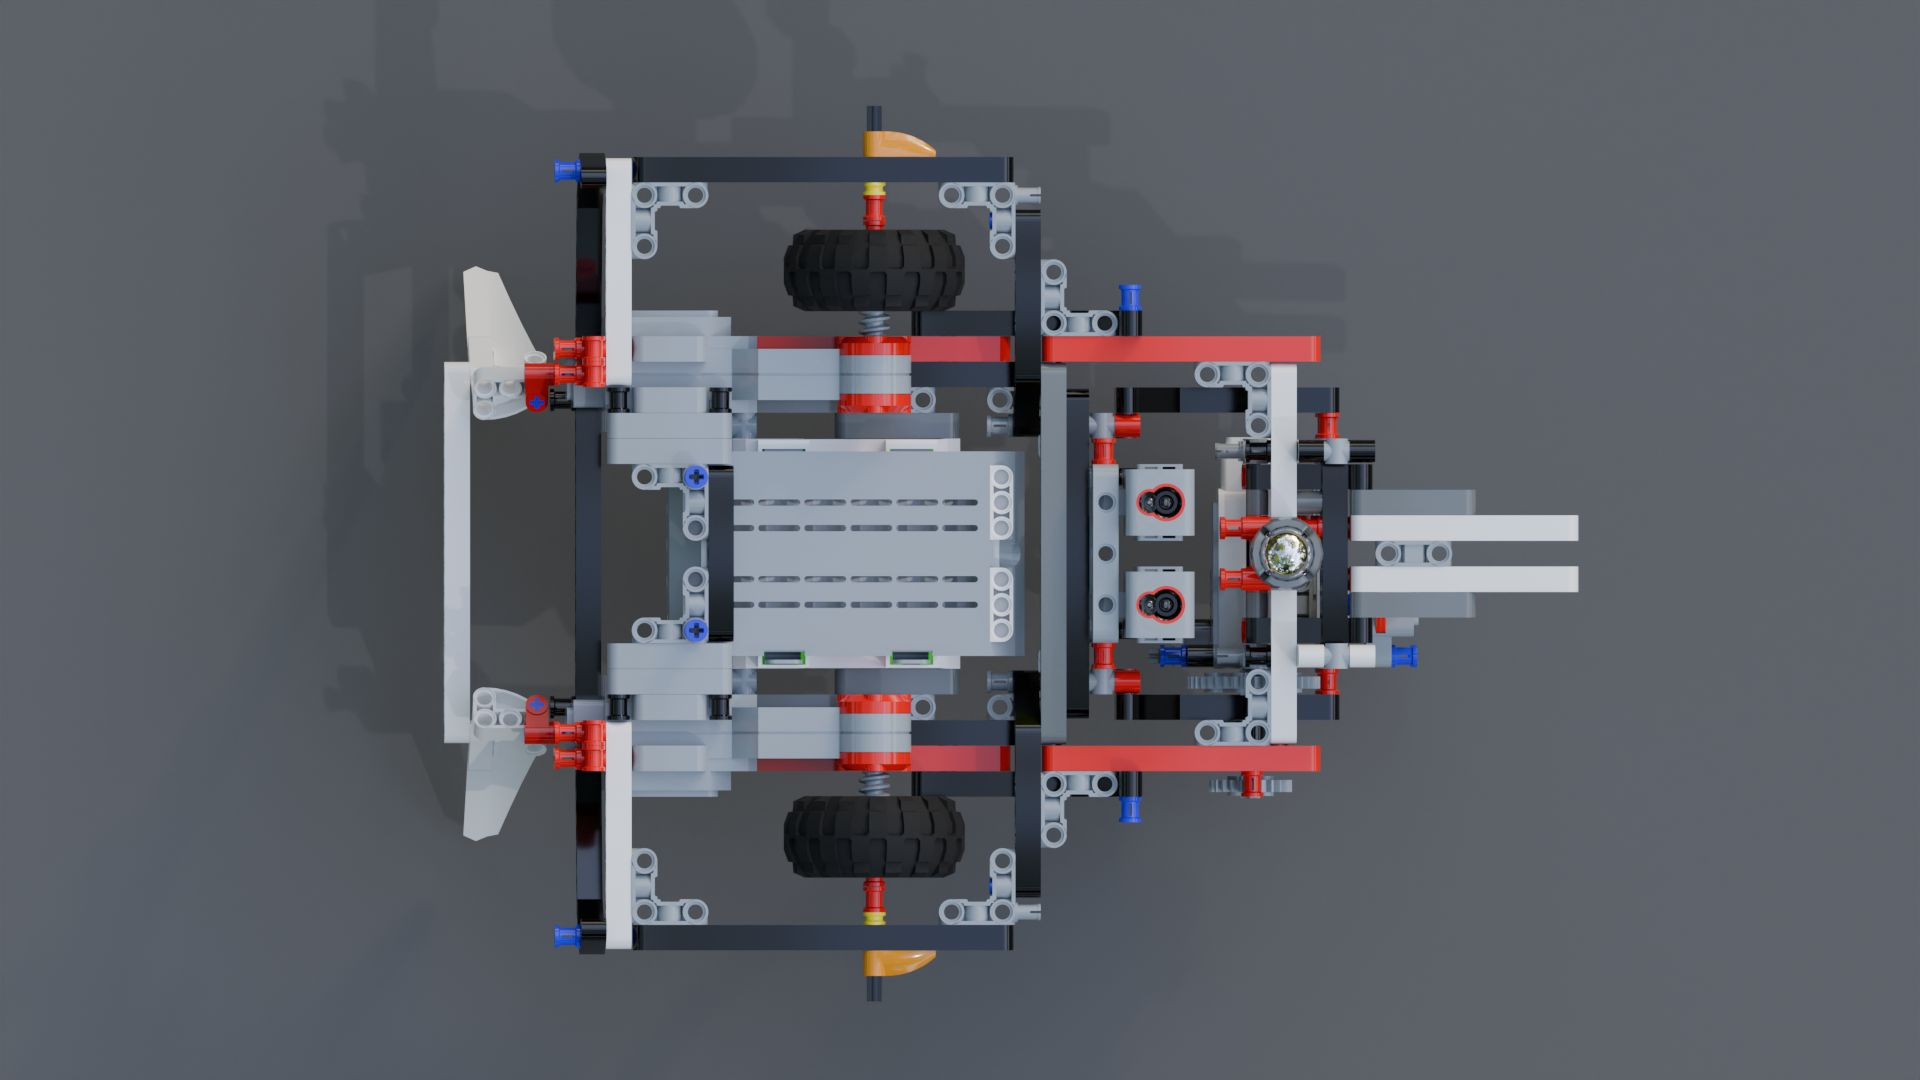
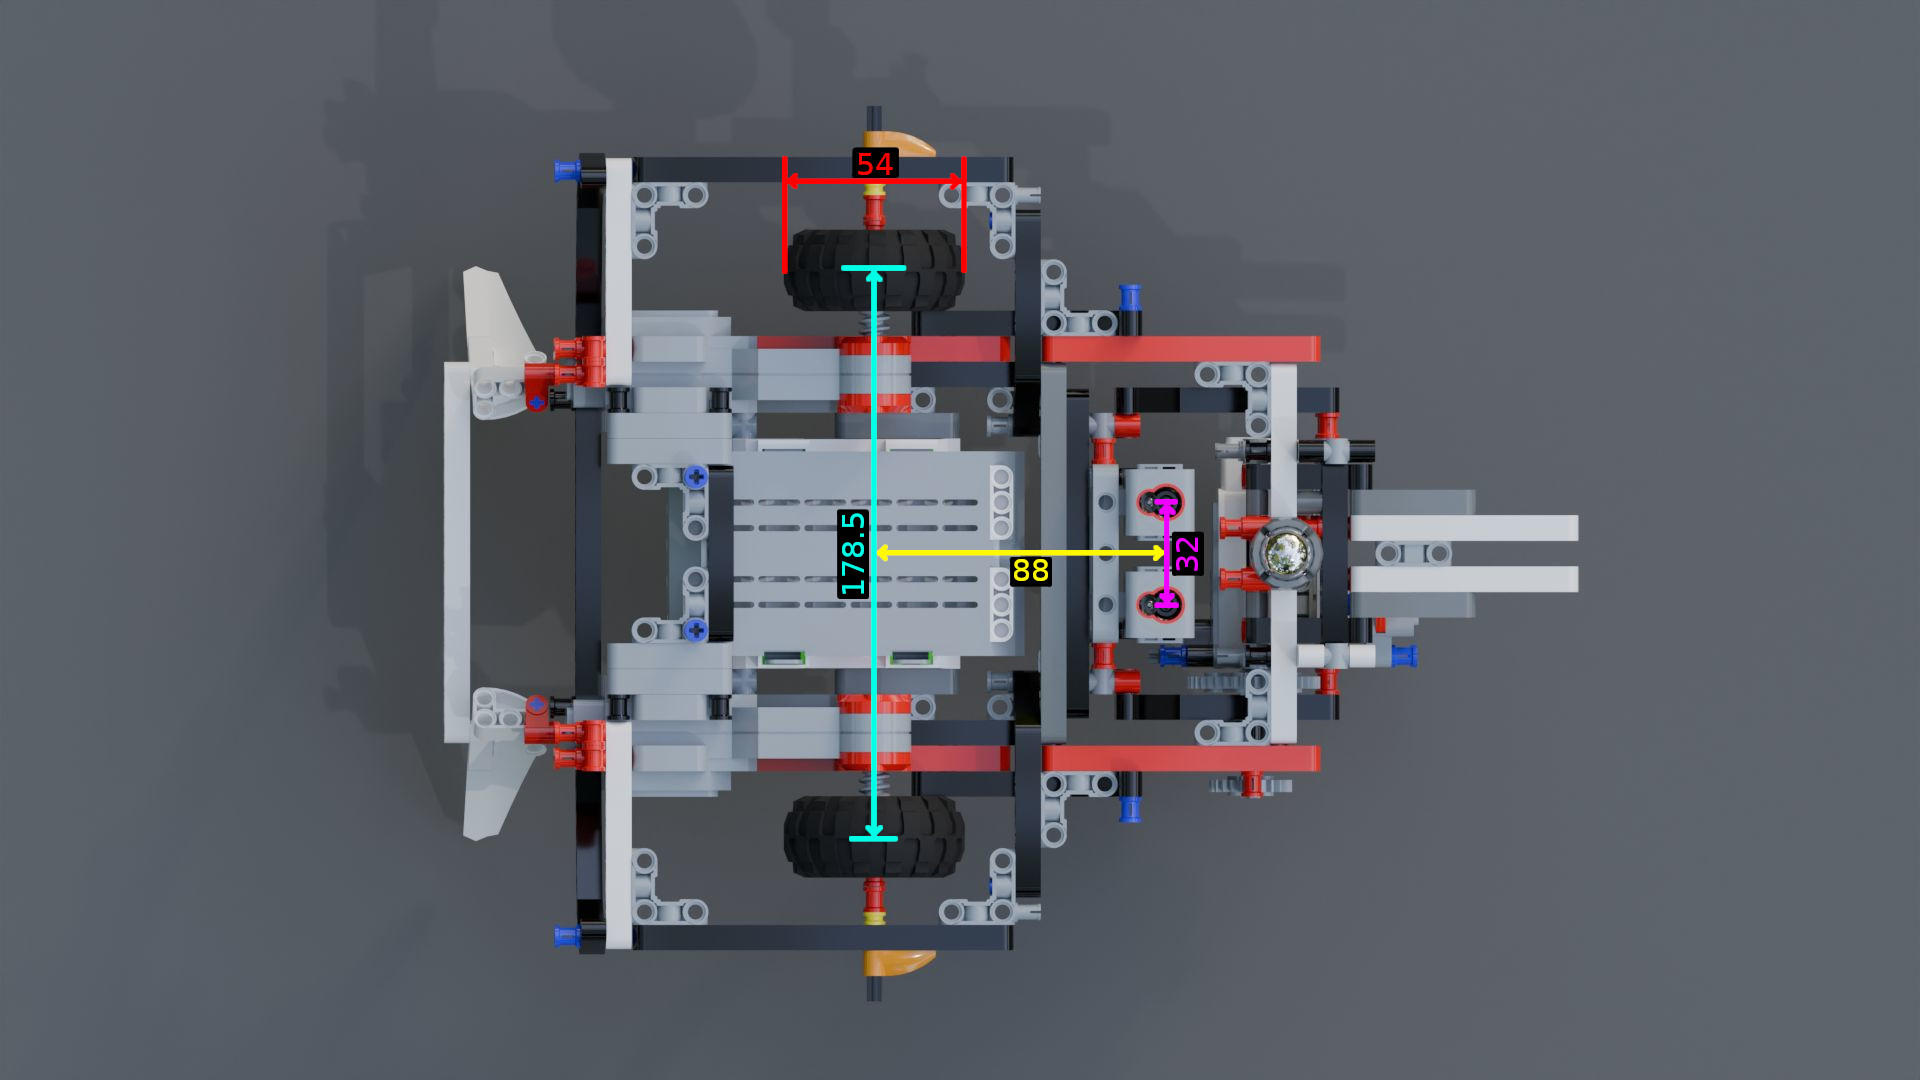
update docs

diff --git a/README.md b/README.md
@@ -1,3 +1,225 @@
-# wri
+# Wstęp do Robotyki dla Informatyków - Sirius Mini
 
-A repo for project for WRI.
+# Autorzy
+
+-   Adam Jeliński
+-   Miłosz Mizak
+
+# 1. Wstęp
+
+Poniższa dokumentacja opisuje działanie kodu sterującego naszym robotem - Siriusem Mini. Robot został złożony z części zestawu LEGO Mindstorms.
+
+Aby uruchomić robota, należy załadować do niego dwa pliki - `follower.py` oraz `transporter.py`. Po uruchomieniu dowolnego z nich należy poczekać na sygnał dźwiękowy, a następnie wpisać komendę `start`, aby robot rozpoczął działanie.
+
+# 2. Ogólny opis działania
+
+Robot miał za cel wykonać dwa zadania. Pierwszym było **Follow The Line**, które polegało na dokładnym śledzeniu czarnej linii, tworzącej trasę dla robota. Trasa zawiera w sobie pętle a także skrzyżowania, które należało przejeżdżać na wprost.
+
+Drugim zadaniem był **Transporter**. Robot po rozpoznaniu kolorowego skrzyżowania musiał wjechać w to skrzyżowanie, podnieść paczkę, wycofać się do skrzyżowania, dotrzeć do drugiego skrzyżowania i na drugim kolorowym polu zostawić tę paczkę.
+
+Aby mieć możliwość wykonania tych zadań, robot został wyposażony w dwa kluczowe elementy. Pierwszym były **czujniki kolorów**, które są mu potrzebne do decyzji o skręcaniu w odpowiednim momencie.
+
+Drugim był **podnośnik**, analogiczny do takiego w wózku widłowym. Widły wchodzą w dziurę w dolnej części przesyłki, a następnie podnoszą się. W górnej części wideł zamontowany jest **czujnik dotyku**. Gdy widły podniosą się wystarczająco wysoko, wciskają czujnik, co zatrzymuje ich dalsze wznoszenie.
+
+Oczywiście mechanizm podnoszenia i opuszczania wideł jest sterowany przez program.
+
+# 3. Opis fizycznej konstrukcji
+
+![sirius_mini](docs/sirius_mini.jpg)
+
+W celu lepszego zaplanowania robota, stworzyliśmy dokładną replikę naszego robota w programie Bricklink Studio 2.0. Dzięki temu mogliśmy myśleć nad rozwiązaniami poza zajęciami i mieliśmy możliwość stworzenia ładnych renderów do tej dokumentacji. Model znajduje się w pliku `sirius_mini.io`.
+
+## Baza jezdna
+
+![sirius_mini_top](docs/sirius_mini_top.jpg)
+![sirius_mini_bottom](docs/sirius_mini_bottom.jpg)
+
+Na samym początku budowania naszego robota postanowiliśmy, że najprościej będzie sterować robotem z napędem różnicowym i metalową kulą służącą jako podparcie. Dzięki temu mamy możliwość bardzo łatwego skręcania w miejscu i możemy skorzystać z gotowego kontrolera `MoveDifferential` z biblioteki `ev3dev2`.
+
+Staraliśmy się wybrać jak najmniejsze kółka oraz jak największy ich rozstaw, aby maksymalnie wykorzystać rozdzielczość enkoderów z kół. Dodatkowo każdy element konstrukcji jest bardzo sztywny, dzięki czemu minimalizowaliśmy niepewność związaną z wyginaniem się robota. Dlatego koła nie trzymają się jedynie na silnikach, ale mają dodatkowe podparcia od zewnątrz.
+
+Wymiary:
+
+- średnica kółek: 54mm
+- rozstaw kółek: 178.5mm
+- odległość pomiędzy czujnikami i osią: 88mm
+- rozstaw między czujnikami: 32mm
+
+## Czujniki
+![sirius_mini_side](docs/sirius_mini_side.jpg)
+
+Czujniki koloru umieściliśmy względnie blisko osi obrotu robota, dzięki czemu robot niezbyt często wchodził w oscylacje podczas szukania linii. Zamontowane są na tyle nisko, że linia może w całości zmieścić się między ich polami pomiarowymi.
+
+## Transporter
+
+![sirius_mini_fork](docs/sirius_mini_fork.jpg)
+
+Aby przenieść paczkę, postanowiliśmy że stworzymy mechanizm z widłami, które poruszają się w pionie. Rozwiązanie to jest znacznie bardziej skomplikowane niż typowy hak, który był wykorzystany przez konkurencję. My uznaliśmy, że będzie to ciekawe wyzwanie i stworzenie wózka widłowego będzie zabawne.
+
+W celu osiągnięcia pionowego ruchu wideł konieczna była zamiana ruchu obrotowego z silnika na ruch posuwisty. Musieliśmy bardzo kreatywnie podejść do problemu aby to osiągnąć z dostępnymi elementami. Ostatecznie stworzyliśmy mechanizm korbowy, z pionową prowadnicą, utrzymującą widły w poziomie.
+
+![sirius_mini_fork_cross_section](docs/sirius_mini_fork_cross_section.jpg)
+
+Aby nie musieć ręcznie kalibrować pozycji wideł przy każdym uruchomieniu, używamy czujnika dotyku jako endstop. Podczas startu programu robot podnosi widły aż o niego uderzy, dzięki czemu zawsze wie gdzie się znajdują.
+
+Dzięki lekkiemu skosowi robota, paczka jest oparta o tył wideł i nie zsuwa się podczas jazdy.
+
+## Ciekawostki
+
+Najważniejszym elementem konstrukcyjnym jest spoiler z tyłu robota, daje on nam maksymalną liczbę punktów za styl.
+
+Ze względu na duże zużycie najpopularniejszych elementów, nasz robot nie zawiera prawie żadnych czarnych podwójnych pinów. Zamiast nich korzystaliśmy z potrójnych pinów z zatyczką, tam gdzie to było możliwe. To znacząco poprawiło stabilność naszej konstrukcji.
+
+
+# 4. Opis działania programu
+
+Zarówno `transporter` jak i `follower` działają na tym samym kodzie, z tą różnicą, że `follower` jest okrojony z części przeznaczonej do transportu paczek. Wobec tego omówimy tutaj jedynie kod `transporter.py`.
+
+Aby móc komunikować się z częściami podłączonymi do kostki EV3, wykorzystywana jest biblioteka `ev3dev2`. Biblioteka dostarcza obiektowe odpowiedniki elementów robota - czujniki, silniki, wejścia i wyjścia.
+
+Robot działa na zasadzie poniższej maszyny stanowej:
+
+```mermaid
+stateDiagram-v2
+    [*] --> Following
+    Following --> EnterBranch: value < 15 and color_diff > 10 and color > 50
+    EnterBranch --> SearchTarget: diff > 15
+    SearchTarget --> PickupPackage: value < 20 and color > 50 and holding_package
+    SearchTarget --> DropPackage: value < 20 and color > 40 and not holding_package
+    PickupPackage --> ReturnToLine: done
+    ReturnToLine --> ReturnToIntersection: done
+    ReturnToIntersection --> ExitIntersection: value < 15
+    ExitIntersection --> Following: done
+
+    DropPackage --> Finish: done
+    Finish --> [*]
+```
+
+Oczywiście w zadaniu **Follow The Line** używany jest jedynie stan **Following**.
+
+## Klasy
+
+### PID
+
+Klasa implementująca regulator proporcjonalno-całkująco-różniczkujący. Na podstawie wartości regulatora robot wylicza w jakim kierunku powinien jechać. Regulator zawiera prostą metodę _reset_ do resetu wartości czynnika całkującego oraz poprzedniej wartości błędu. Metoda _step_ wylicza sterowanie na podstawie błędu między wyliczoną pozycją a tą rzeczywistą.
+
+### Kolo
+
+Bardzo prosta klasa dziedzicząca po klasie _Wheel_. Jej jedynym zadaniem jest tworzenie za każdym razem takiego obiektu klasy _Wheel_, który będzie pasował do kół zamontowanych w naszym robocie. Klasa ta jest wykorzystywana do inicjalizacji kontrolera napędu różnicowego.
+
+### Vehicle
+
+Klasa opisująca całego robota.
+
+#### Parametry
+
+-   `wheel_separation`- rozstaw kół
+-   `sensor_offset` - odległość między czujnikami koloru a środkiem robota
+-   `speed` - obecna prędkość robota
+-   `default_speed` - bazowa prędkość robota
+-   `forklift_motor` - uchwyt do silnika do wideł
+-   `forklift_sensor` - uchwyt do czujnika dotyku do wideł
+-   `color_sensor_right` - uchwyt do prawego czujnika koloru
+-   `color_sensor_left` - uchwyt do lewego czujnika koloru
+-   `controller` - uchwyt do kontrolera napędu różnicowego
+-   `sound` - komponent dźwiękowy
+
+W konstruktorze klasy są także ustawiane maksymalne wartości czujników koloru. Jest to element kalibracji robota, więc wartości które są tam wpisane różnić się będą w zależności od konkretnych czujników.
+
+Jako kontroler napędu używamy klasy `MoveDifferential` dostępną w bibliotece `ev3dev2`. Dzięki temu możemy w bardzo prosty sposób sterować robotem, bez martwienia się niskopoziomowe obsługiwanie silników. 
+
+#### Metody
+
+-   `set_state` - ustawia nowy stan robota
+-   `sense_line` - zwraca różnicę między natężeniem światła prawego i lewego czujnika (a także wartości tych natężeń)
+-   `set_speed` - ustala prędkość obu silników na podstawie zadanego sterowania
+-   `sense_colour` - sprawdza kolor znajdujący się pod czujnikami i zwraca miarę "kolorowości" danego miejsca. Aby ją wyznaczyć obliczamy różnicę między składową czerwoną a średnią ze składowej zielonej i niebieskiej. Dzięki temu miara da zwraca duże wartości dla zielonego i niebieskiego, a niskie dla białego i czarnego
+-   `run` - główna pętla działania robota. Robot zostaje ustawiony w stan Following, czyszczony jest ekran terminala, a następnie robot gra dźwięk oznaczający, że jest gotowy do działania. Potem zerowana jest odometria, a widły zostają zresetowane. W pętli robot wykonuje tylko jedną czynność - wywołuje metodę `step` na obecnym stanie.
+
+### LineFollower
+
+Klasa ta jest najprostszą implementacją line followera, którą później wykorzystujemy w niektórych stanach programu. 
+
+Do metody `step` przyjmuje różnicę jasności między prawym i lewym czujnikiem koloru. Różnica ta jest przekazywana do sterownika PID, który dąży do zerowania tej wartości (ustawienia robota równo na linii). Wyjście ze sterownika jest ograniczane do przedziału `-100 -- 100` a następnie przekazywane jako wejście do sterowania dla kontrolera napędu.
+
+Dzięki temu podejściu jesteśmy w stanie bez problemów podążać po linii bez żadnej dodatkowej logiki.
+
+### State
+
+Klasa bazowa dla wszystkich stanów. Jej jedynym polem jest `context`, którym jest instancja klasy `Vehicle`. Klasa ma dwie metody: `setup` i `step`. Ta pierwsza drukuje wiadomość do terminala o zmianie stanu oraz ustala różne zmienne lokalne. Ta druga jest wykonywana w pętli przez `Vehicle`.
+
+### StateIdle
+
+Instancja tego stanu powoduje zakończenie programu.
+
+### StateFollowing
+
+W tym stanie robot porusza się po linii. Jeżeli w trakcie poruszania się wykryje zmianę w kolorze (bo na przykład dojechał do zakrętu), to wchodzi w tryb powolnego ruchu z dwa razy mniejszą prędkością. Dzięki temu prościej jest mu wykryć dokładną wartość koloru. Jeżeli faktycznie okaże się, że robot dojechał do skrzyżowania o konkretnym kolorze, to robot przechodzi do stanu **EnterBranch**.
+
+Nasz sposób mierzenia koloru sprawia, że robot jest w stanie wykryć dowolny kolor, o ile posiada odpowiednie czujniki. Nasze konkretne czujniki najlepiej radziły sobie z wykrywaniem koloru zielonego i niebieskiego, więc to na takich kolorach przeprowadzaliśmy testy.
+
+### StateEnterBranch
+
+Robot powoli skręca wchodząc w kolorowe skrzyżowanie. Gdy uda mu się wyprostować, wchodzi w stan **SearchTarget**.
+
+### StateSearchTarget
+
+Ten stan faktycznie szuka celu, z tym że celem nie jest sama paczka, a kafelek określonego koloru na którym leży. W związku z tym stan jest wykorzystywany dwa razy - pierwszy raz przed podniesieniem paczki i drugi raz przed jej odstawieniem na miejsce.
+
+Jako, że w trakcie uruchomienia tego stanu czujniki mogą dalej znajdować się przy kolorowym skrzyżowaniu, to robot mógłby omyłkowo stwierdzić, że natychmiast odnalazł swój cel. Aby temu zapobiec, blokujemy możliwość wykrycia celu przez określony czas.
+
+Robot przechodzi następnie w stan **PickupPackage** lub w stan **DropPackage**, w zależności od tego czy trzyma paczkę.
+
+### StatePickupPackage
+
+Robot zatrzymuje się, podnosi widły (miejmy nadzieję że razem z paczką), a następnie przechodzi do stanu **ReturnToLine**.
+
+### StateReturnToLine
+
+Robot przejeżdża trochę do przodu, a następnie obraca się o 180 stopni i przechodzi do stanu **ReturnToIntersection**.
+
+### StateReturnToIntersection
+
+Robot jedzie tak długo, aż ponownie nie natrafi na kolorowe skrzyżowanie, po czym przechodzi do stanu **ExitIntersection**.
+
+### StateExitIntersection
+
+Robot jedzie tak, aby jego środek znajdował się na środku skrzyżowania. Następnie robi zwrot o 90 stopni i ponownie przechodzi do stanu **Following**. Będąc w tym stanie będzie teraz znów szukał kolejnego skrzyżowania, aby tam wjechać i zostawić paczkę.
+
+### StateDropPackage
+
+Robot przejeżdża odrobinę do przodu i zostawia paczkę. Następnie przechodzi do stanu **Finish**.
+
+### StateFinish
+
+Robot cofa się, obraca się o 180 stopni a następnie wydaje okrzyk zwycięstwa i wesoło porusza widłami w górę i w dół.
+
+# 5. Kalibracja
+
+## System napędowy
+
+Aby zmaksymalizować dokładność pracy naszego robota przeprowadziliśmy kompleksową kalibrację rozmiaru kółek oraz rozstawu osi. 
+
+Do kalibracji rozmiaru kół początkowo użyliśmy wymiarów od LEGO. Następnie kazaliśmy robotowi przejechać 2 metry i zmierzyliśmy faktyczny dystans. Następnie zaktualizowaliśmy średnicę kół zgodnie z proporcją którą uzyskaliśmy i powtórzyliśmy test. Po uzyskaniu zadowalająco niskiego błędu zakończyliśmy kalibrację.
+
+Do kalibracji rozstawu kół zaczęliśmy od zmierzenia jego przybliżonej wartości suwmiarką. Następnie kazaliśmy robotowi zrobić obrót o 180 stopni i patrzeliśmy czy obróci się za dużo, czy za mało. Następnie metodą przeszukiwania binarnego ustaliliśmy zadowalającą wartość rozstawu kół.
+
+Niestety nie mogliśmy skalibrować różnicy średnicy prawego i lewego koła, ponieważ wymagałoby to przepisanie całej logiki `MoveDifferential`. W związku z tym próbowaliśmy różne pary kółek dostępnych w laboratorium, aby znaleźć parę, która nie będzie zbyt znacząco znosić na boki.
+
+## Czujniki
+
+Do kalibracji czujników początkowo użyliśmy gotowej funkcji do ustawiania odpowiednich wartości maksymalnych dla białej płytki. Było to uciążliwe, bo wymagało kalibracji przed każdym startem. Dlatego dokonaliśmy ręcznej kalibracji i samodzielnie podajemy wartości dla `red_max` `green_max` i `blue_max` dla obu czujników.
+
+## PID
+
+Nastawy dla sterownika PID wybraliśmy eksperymentalnie, przy użyciu osobnego programu do szybkich testów różnych nastawów.
+
+# 6. Napotkane problemy
+
+## Czujniki
+
+Jakość danych zwracanych przez dostępne czujniki koloru jest bardzo niska. Nawet po kalibracji koloru białego, pomiary często były niestabilne i dalekie od tego czego byśmy oczekiwali. Dodatkowo, sposób pomiaru wykorzystany przez te czujniki powoduje, że jeżeli robot się porusza, to każda składowa może być zmierzona w innej pozycji. To powodowało, że czasami czarny był rozpoznawany jako niebieski i ostry zakręt wyglądał jak niebieskie skrzyżowanie.
+
+## Micropython
+
+Aby przyśpieszyć proces prototypownia, często korzystaliśmy z interpretera micropython zamiast standardowego pythona, aby oszczędzić wiele cennych sekund na każdy start programu. Niestety micropython ma problemy z funkcjami które są blokujące, np obrót silnikiem o określony dystans i czasami losowo wyrzuca błąd. Z tego powodu podczas ostatnich laboratoriów byliśmy zmuszeni skorzystać z wolniejszego pythona, aby mieć pewność, że nie stracimy finałowego testu z powodu losowego crasha programu.
